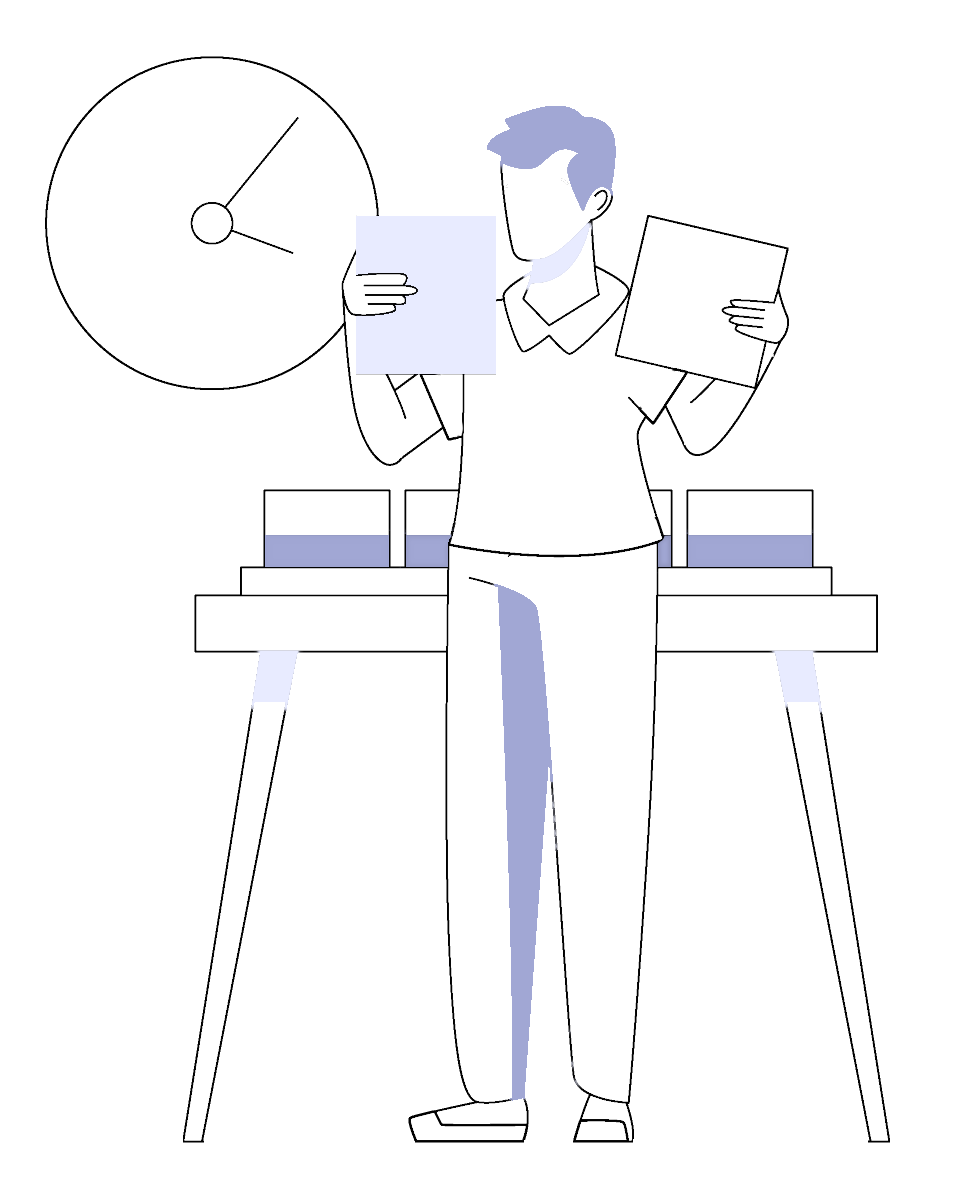
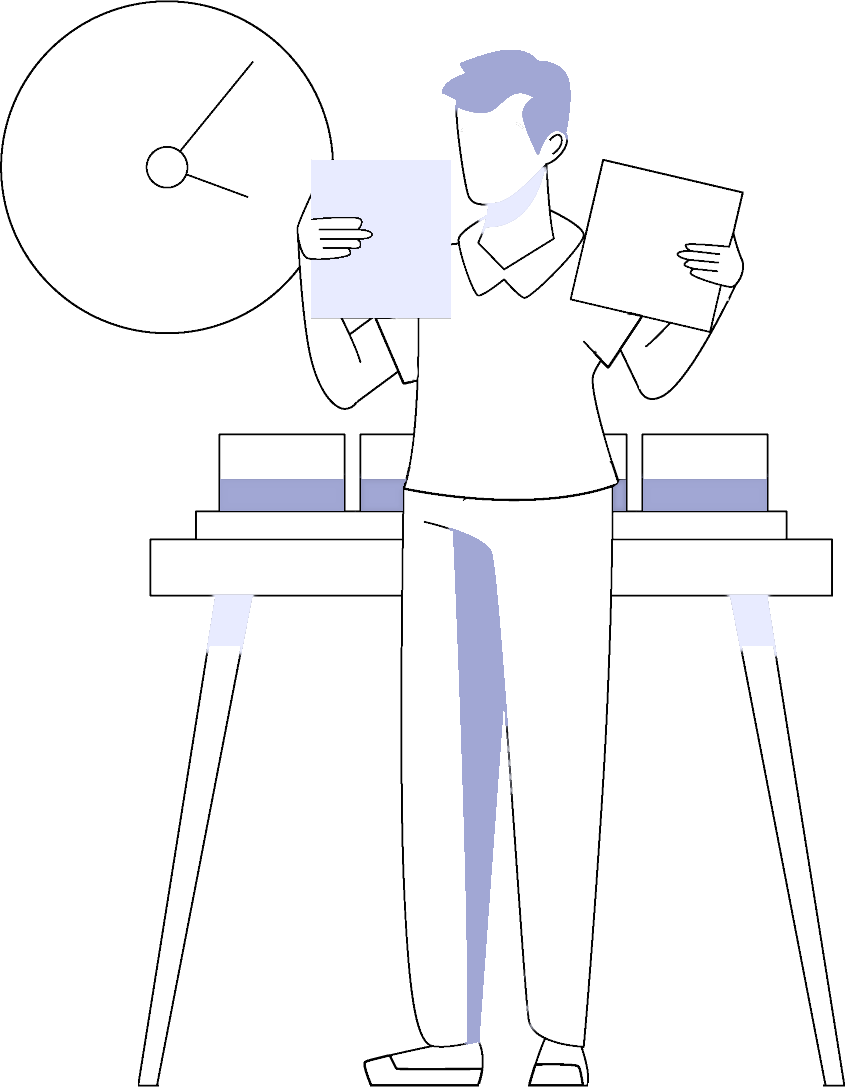
fix: 🐞 add email validation & changed images to cropped version
add email validation & changed images to cropped version

diff --git a/src/components/containers/Main/Intro/Intro.view.tsx b/src/components/containers/Main/Intro/Intro.view.tsx
@@ -2,9 +2,9 @@ import React from 'react';
 import Image from 'next/image';
 import { useTranslation } from 'react-i18next';
 
-import introImagIpadResponsive from '@/images/intro-logo-ipad.jpg';
+import introImagIpadResponsive from '@/images/intro-logo-ipad.png';
 import introImgMobileResponsive from '@/images/intro-logo-mobile.png';
-import introImgWebResponsive from '@/images/intro-logo-web.jpg';
+import introImgWebResponsive from '@/images/intro-logo-web.png';
 
 import VSvg from '@/ui/VSvg';
 
@@ -12,6 +12,10 @@ import classes from './Intro.module.scss';
 
 interface IProps {
 	readonly joinersCount: number;
+	readonly emailInputChangeHandler: (_: string) => void;
+	readonly emailInputState: string | null;
+	readonly formSubmitHandler: (event: KeyboardEvent) => void;
+	readonly emailInputIsInValid: boolean;
 }
 
 const IntroView: React.FC<IProps> = (props: React.PropsWithChildren<IProps>) => {
@@ -37,7 +41,6 @@ const IntroView: React.FC<IProps> = (props: React.PropsWithChildren<IProps>) => 
 						alt="Intro image"
 						loading="lazy"
 						placeholder="blur"
-						// layout="fill"
 						objectFit="contain"
 					/>
 				</div>
@@ -57,15 +60,25 @@ const IntroView: React.FC<IProps> = (props: React.PropsWithChildren<IProps>) => 
 							{t('intro.waitListDescriptionSub')}
 						</span>
 					</p>
-					<form className={classes['introWishlistFormContainer']}>
+					<form
+						className={classes['introWishlistFormContainer']}
+						onSubmit={({ currentTarget: { value } }) => props.formSubmitHandler(value)}
+					>
 						<input
 							className={classes['introWishlistFormContainer__input']}
 							type="email"
 							placeholder={t('intro.wishListFormPlaceHolder')}
+							onChange={({ currentTarget: { value } }) => props.emailInputChangeHandler(value)}
 						/>
 						<button className={classes['introWishlistFormContainer__submit']} type="submit">
 							{t('intro.wishListFormButton')}
 						</button>
+						{/* {!props.emailInputIsInValid && (
+							<p className={classes['emailInputIsValid']}>valid email/</p>
+						)} */}
+						{props.emailInputIsInValid && (
+							<p className={classes['emailInputIsValid']}>somthing went worng!</p>
+						)}
 						<button className={classes['introWishlistFormContainer__submitIpad']} type="submit">
 							<VSvg name="submitButton" />
 						</button>
@@ -77,7 +90,6 @@ const IntroView: React.FC<IProps> = (props: React.PropsWithChildren<IProps>) => 
 						alt="Intro image"
 						loading="lazy"
 						placeholder="blur"
-						// layout="fill"
 						objectFit="contain"
 					/>
 				</div>

diff --git a/src/components/containers/Main/Intro/Intro.tsx b/src/components/containers/Main/Intro/Intro.tsx
@@ -1,4 +1,8 @@
-import React from 'react';
+// import { match } from 'assert';
+import React, { useState } from 'react';
+// import axios from 'axios';
+
+import { validateEmail } from '@/utils/validators';
 
 import IntroView from './Intro.view';
 
@@ -7,7 +11,50 @@ interface IProps {
 }
 
 const Intro: React.FC<IProps> = (props: React.PropsWithChildren<IProps>) => {
-	return <IntroView joinersCount={props.joinersCount} />;
+	const [emailInputState, setEmailInputState] = useState<string | null>(null);
+
+	const emailInputChangeHandler = (input: string) => {
+		setEmailInputState(() => input);
+	};
+
+	const [emailInputIsValidState, setEmailInputIsValidState] = useState<boolean>(false);
+
+	const [emailInputTouchedState, setEmailInputTouchedState] = useState<boolean>(false);
+
+	const emailInputIsInValid = !emailInputIsValidState && emailInputTouchedState;
+
+	const formSubmitHandler = (event: KeyboardEvent) => {
+		event.preventDefault();
+
+		setEmailInputTouchedState(true);
+
+		if (emailInputState === null) {
+			return;
+		}
+
+		if (validateEmail(emailInputState)) {
+			// try {
+			// 	const response = await axios.post('')
+
+			// } catch (error) {
+
+			// }
+			setEmailInputIsValidState(() => true);
+			setEmailInputState(() => null);
+		} else {
+			setEmailInputIsValidState(() => false);
+		}
+	};
+
+	return (
+		<IntroView
+			joinersCount={props.joinersCount}
+			emailInputChangeHandler={emailInputChangeHandler}
+			formSubmitHandler={formSubmitHandler}
+			emailInputState={emailInputState}
+			emailInputIsInValid={emailInputIsInValid}
+		/>
+	);
 };
 
 Intro.displayName = 'Intro';

diff --git a/src/components/containers/Main/JoinWishlist/JoinWishlist.module.scss b/src/components/containers/Main/JoinWishlist/JoinWishlist.module.scss
@@ -7,6 +7,7 @@
 	margin: 70px 0;
 
 	.joinWishlistSection {
+		border: 1px solid red;
 		display: flex;
 		align-items: center;
 		max-width: 1100px;
